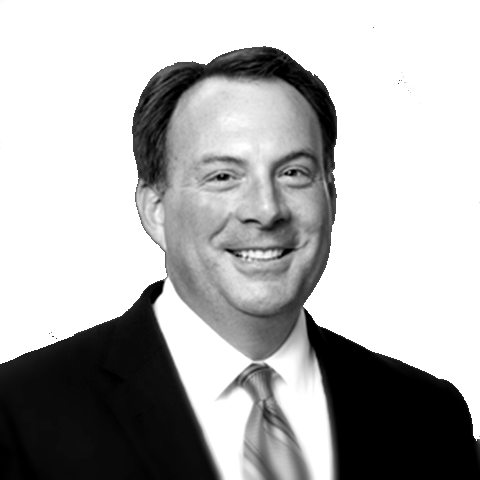
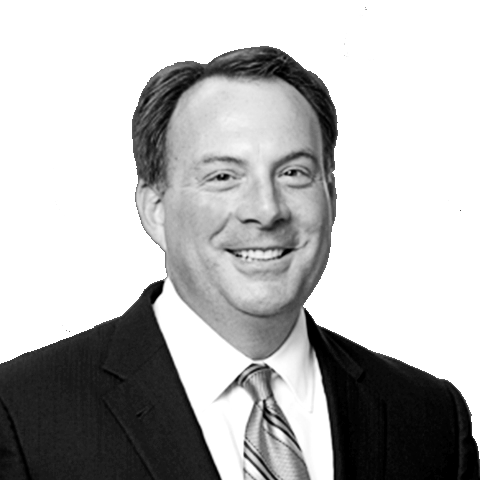
Pushes to teams page, search bar, buttons for filt
Changes to be committed:
	modified:   cbx/src/components/globals/static/Footer.jsx
	new file:   cbx/src/components/globals/static/assets/X.svg
	modified:   cbx/src/components/team/Roster.jsx
	modified:   cbx/src/components/team/VerticalMenu.jsx
	modified:   cbx/src/components/team/profiles/headshot_Martenson.png
	modified:   cbx/src/components/team/teamIndex.js
	modified:   cbx/src/pages/main/Team.jsx
	deleted:    cbx/src/pages/main/index.js
	modified:   cbx/src/pages/sub/TeamMember.jsx

diff --git a/cbx/src/components/team/Roster.jsx b/cbx/src/components/team/Roster.jsx
@@ -3,7 +3,7 @@ import { people } from "./teamIndex";
 import arrow from "./arrow.svg";
 import { useNavigate } from "react-router-dom";
 
-const Roster = ({ aspect }) => {
+const Roster = ({ aspect, setAspect }) => {
     const nav = useNavigate();
     //aspect is a string
     function filter(profile) {
@@ -13,31 +13,119 @@ const Roster = ({ aspect }) => {
         return profile.teams.includes(aspect.toLowerCase());
     }
 
+    function namesearch(profile) {
+        for (const name in profile.names) {
+            if (profile.names[name].startsWith(aspect.toLowerCase())) {
+                return true;
+            }
+        }
+        return false;
+    }
+
     function profileClick(person) {
-        //navigate to a NEW PAGE with that 
+        //navigate to a NEW PAGE with that
         nav("/team/" + person.redirect);
     }
 
     return (
         <section className="bg-gray-100 flex flex-col justify-center items-center text-black text-4xl absolute">
-            <div className="mt-20">
-                <span
-                    className={`mt-4 ${
-                        aspect.toLowerCase() == "advisors"
+            <div className="mt-28 w-full ml-16">
+                <div
+                    className={`mb-4 text-sm flex flex-row w-full gap-3 ${
+                        aspect.toLowerCase() == "advisors" ||
+                        aspect.toLowerCase() == "advisory-board" ||
+                        aspect.toLowerCase() == "tech-board"
                             ? "visible"
                             : "hidden"
                     }`}
                 >
-                    [Button] [Button]
-                </span>
+                    <button
+                        className="h-8 text-black border-black border-2 px-4 
+                                            tracking-wide font-semibold hover:border-transparent hover:bg-black
+                                          hover:text-white transition duration-500 ease-in-out"
+                        onClick={() => {
+                            setAspect("advisory-board");
+                        }}
+                    >
+                        ADVISORY BOARD
+                    </button>
+                    <button
+                        className="h-8 text-black border-black border-2 px-4 
+                                            tracking-wide font-semibold hover:border-transparent hover:bg-black
+                                          hover:text-white transition duration-500 ease-in-out"
+                    >
+                        TECHNOLOGY ADVISORY BOARD
+                    </button>
+                </div>
             </div>
+
+            <div className="w-full ml-16">
+                <div
+                    className={`mt-4 mb-4 text-sm flex flex-row w-full gap-3 ${
+                        aspect.toLowerCase() == "investment" ||
+                        aspect.toLowerCase() == "analyst" ||
+                        aspect.toLowerCase() == "associate" ||
+                        aspect.toLowerCase() == "principal" ||
+                        aspect.toLowerCase() == "managing-director"
+                            ? "visible"
+                            : "hidden"
+                    }`}
+                >
+                    <button
+                        className="h-8 text-black border-black border-2 px-4 
+                                            tracking-wide font-semibold hover:border-transparent hover:bg-black
+                                          hover:text-white transition duration-500 ease-in-out"
+                        onClick={() => {
+                            setAspect("advisory-board");
+                        }}
+                    >
+                        ANALYST
+                    </button>
+                    <button
+                        className="h-8 text-black border-black border-2 px-4 
+                                            tracking-wide font-semibold hover:border-transparent hover:bg-black
+                                          hover:text-white transition duration-500 ease-in-out"
+                        onClick={() => {
+                            setAspect("advisory-board");
+                        }}
+                    >
+                        ASSOCIATE
+                    </button>
+                    <button
+                        className="h-8 text-black border-black border-2 px-4 
+                                            tracking-wide font-semibold hover:border-transparent hover:bg-black
+                                          hover:text-white transition duration-500 ease-in-out"
+                        onClick={() => {
+                            setAspect("advisory-board");
+                        }}
+                    >
+                        PRINCIPAL
+                    </button>
+                    <button
+                        className="h-8 text-black border-black border-2 px-4 
+                                            tracking-wide font-semibold hover:border-transparent hover:bg-black
+                                          hover:text-white transition duration-500 ease-in-out"
+                        onClick={() => {
+                            setAspect("advisory-board");
+                        }}
+                    >
+                        MANAGING DIRECTOR
+                    </button>
+                </div>
+            </div>
+
+            {/* Profiles */}
             <div className="w-full h-full grid grid-cols-4 overflow-hidden px-4">
                 {people.map((tab) => (
                     <div
                         className={`${
-                            filter(tab) ? "visible" : "hidden"
+                            filter(tab) || namesearch(tab)
+                                ? "visible"
+                                : "hidden"
                         } m-4 rounded-md overflow-hidden hover:cursor-pointer group`}
-                        onClick={()=>{profileClick(tab)}}
+                        onClick={() => {
+                            profileClick(tab);
+                        }}
                     >
                         <div className="rounded-lg bg-white w-full">
                             <img

diff --git a/cbx/src/components/team/teamIndex.js b/cbx/src/components/team/teamIndex.js
@@ -3,6 +3,7 @@ import martenson from "./profiles/headshot_Martenson.png"
 let people = [
     {
         name: "investor #1",
+        names: [],
         profile: profile,
         teams: ["investment"],
         title: "Advisor",
@@ -11,6 +12,7 @@ let people = [
     },
     {
         name: "investor #2",
+        names: [],
         profile: profile,
         teams: ["investment"],
         title: "Advisor",
@@ -18,6 +20,7 @@ let people = [
     },
     {
         name: "investor #3",
+        names: [],
         profile: profile,
         teams: ["investment"],
         title: "Advisor",
@@ -25,6 +28,7 @@ let people = [
     },
     {
         name: "investor #4",
+        names: [],
         profile: profile,
         teams: ["investment"],
         title: "Advisor",
@@ -33,6 +37,7 @@ let people = [
 
     {
         name: "operations #1",
+        names: [],
         profile: profile,
         teams: ["operations"],
         title: "Advisor",
@@ -40,6 +45,7 @@ let people = [
     },
     {
         name: "operations #2",
+        names: [],
         profile: profile,
         teams: ["operations"],
         title: "Advisor",
@@ -47,6 +53,7 @@ let people = [
     },
     {
         name: "operations #3",
+        names: [],
         profile: profile,
         teams: ["operations"],
         title: "Advisor",
@@ -54,6 +61,7 @@ let people = [
     },
     {
         name: "operations #4",
+        names: [],
         profile: profile,
         teams: ["operations"],
         title: "Advisor",
@@ -62,14 +70,16 @@ let people = [
 
     {
         name: "Peter T. Martenson",
+        names: ["peter martenson", "peter t martenson", "peter t. martenson"],
         profile: martenson,
-        teams: ["advisors"],
-        title: "Advisor",
+        teams: ["advisors", "advisory-board"],
+        title: "Global Head of GP Advisory at Eaton Partners",
         redirect: "peter-martenson",
         description:"Peter Martenson is a member of the Private Capital Advisory team.\n Prior to joining Eaton Partners, he was a Managing Director with Macquarie Funds Management, where he led a team of investment professionals structuring, fundraising and investing fund of funds and separate accounts into global PE opportunities. Previously, he was a Director with Pacific Corporate Group, where he advised large and small institutional investors on structuring and investing their private equity programs. He began his career as an Operations Officer in the United States Navy within the surface warfare community.\n Peter received an MBA from Yale University in New Haven, CT and a B.S. in Oceanography from the United States Naval Academy in Annapolis, MD. He is also a graduate of the U.S. Naval War College in Newport, RI with a concentration in Defense and Strategic Studies."
     },
     {
         name: "advisor #2",
+        names: [],
         profile: profile,
         teams: ["advisors"],
         title: "Advisor",
@@ -77,6 +87,7 @@ let people = [
     },
     {
         name: "advisor #3",
+        names: [],
         profile: profile,
         teams: ["advisors"],
         title: "Advisor",
@@ -84,6 +95,7 @@ let people = [
     },
     {
         name: "advisor #4",
+        names: [],
         profile: profile,
         teams: ["advisors"],
         title: "Advisor",

diff --git a/cbx/src/pages/sub/TeamMember.jsx b/cbx/src/pages/sub/TeamMember.jsx
@@ -2,10 +2,13 @@ import React, { useState } from "react";
 import NavBar from "../../components/globals/Transition-B/Transition-B";
 import Footer from "../../components/globals/static/Footer";
 import { people } from "../../components/team/teamIndex";
+import arrow from "../../components/team/arrow.svg";
+import { useNavigate } from "react-router-dom";
 
 const TeamMember = () => {
     let profile;
     const split_url = window.location.href.split("/");
+    const nav = useNavigate();
 
     for (let person of people) {
         if (person.redirect == split_url[split_url.length - 1]) {
@@ -14,12 +17,23 @@ const TeamMember = () => {
         }
     }
 
+    function backToTeams() {
+        nav("/team")
+    }
+
     return split_url.length != 5 ||
         split_url[split_url.length - 2] != "team" ? (
         <></>
     ) : (
         <div className="w-screen absolute top-0 left-0 mt-20 overflow-hidden">
             <NavBar />
+            <div className="absolute w-screen flex flex-row justify-end items-center mt-[15vh] opacity-30 hover:opacity-100 hover:cursor-pointer group transition duration-500 ease-in-out"
+            onClick={()=>{backToTeams()}}>
+                <span className="mr-8 text-4xl italic font-semibold opacity-0 group-hover:opacity-100 transition duration-500 ease-in-out">
+                    Back to Teams
+                </span>
+                <img src={arrow} className="h-12 mr-[5vw]" />
+            </div>
             <section className="h-full w-full flex flex-row justify-center items-center mx-[5vw] my-[15vh]">
                 <img
                     src={profile.profile}
@@ -36,7 +50,9 @@ const TeamMember = () => {
                     {profile.description
                         .split("\n")
                         .map((sectionDescription) => (
-                            <p className="mt-4 mr-[8vw]">{sectionDescription}</p>
+                            <p className="mt-4 mr-[8vw]">
+                                {sectionDescription}
+                            </p>
                         ))}
                 </div>
             </section>

diff --git a/cbx/src/components/team/VerticalMenu.jsx b/cbx/src/components/team/VerticalMenu.jsx
@@ -1,4 +1,4 @@
-import React from "react";
+import React, { useState } from "react";
 
 const VerticalMenu = ({ currentFilter, setFilter }) => {
     function filterEquals(val) {
@@ -13,11 +13,19 @@ const VerticalMenu = ({ currentFilter, setFilter }) => {
         }
     }
 
+    function handleInput(value) {
+        if (value === "") {
+            setFilter("all")
+        } else {
+            setFilter(value)
+        }
+    }
+
     const teams = ["Investment", "Operations", "Advisors"];
 
     const elements = (
-        <div className="sticky bg-gray-500 text-white text-3xl top-0 h-screen">
-            <div className="flex flex-col items-start justify-center w-full h-full ml-8 gap-8 font-extralight">
+        <div className="sticky bg-gray-500 text-white text-3xl top-0 h-screen overflow-hidden">
+            <div className="flex flex-col items-start justify-center w-full h-full px-8 gap-8 font-extralight">
                 <span
                     className="text-xl text-gray-300 hover:text-gray-100 transition duration-300 ease-in-out hover:cursor-pointer"
                     onClick={() => {
@@ -38,6 +46,11 @@ const VerticalMenu = ({ currentFilter, setFilter }) => {
                         {name}
                     </div>
                 ))}
+                <input type="text" 
+                className="rounded-none focus:ring-transparent outline-none text-gray-300 
+                w-full bg-gray-500 placeholder:text-gray-400 caret-white border-b-2 border-gray-400 focus:border-white"
+                placeholder="Search our team"
+                onInput={e=>{handleInput(e.target.value)}}></input>
             </div>
         </div>
     );

diff --git a/cbx/src/components/globals/static/Footer.jsx b/cbx/src/components/globals/static/Footer.jsx
@@ -4,6 +4,7 @@ import linkedin from "./assets/linkedin.png";
 import email from "./assets/email.png";
 import twitter from "./assets/twitter.png";
 import instagram from "./assets/instagram.png";
+import X from "./assets/X.svg";
 
 import React, { useState } from "react";
 import logo from "../static/assets/final-logos.png";
@@ -30,15 +31,19 @@ const CookieNotice = ({ onAccept, acceptedState }) => {
                 This website uses cookies. By continuing to use this site, you
                 accept our use of cookies.
             </p>
+            <div className="w-screen absolute flex flex-row justify-end items-start">
+                <img src={X} className="h-6 mr-8 hover:cursor-pointer" onClick={()=>{handleAccept()}}/>
+            </div>
             <button
                 onClick={handleAccept}
-                className="hover:underline hover:bg-white bg-black hover:text-black border-[1px] px-4 mb-2 transition-all duration-300 ease-linear border-white"
+                className="hover:underline hover:bg-white bg-black hover:text-black border-[1px] px-4 my-2 transition-all duration-300 ease-linear border-white"
             >
                 Accept
             </button>
         </motion.div>
     );
 };
+
 const currentYear = new Date().getFullYear();
 const Footer = () => {
     const [showCookieNotice, setShowCookieNotice] = useState(true);

diff --git a/cbx/src/pages/main/Team.jsx b/cbx/src/pages/main/Team.jsx
@@ -14,7 +14,7 @@ const Team = () => {
                         <VerticalMenu currentFilter={currentFilter} setFilter={setFilter}/>
                     </div>
                     <div className="ml-[25vw] w-3/4 h-full">
-                        <Roster aspect={currentFilter} />
+                        <Roster aspect={currentFilter} setAspect={setFilter}/>
                     </div>
                 </div>
             </section>
